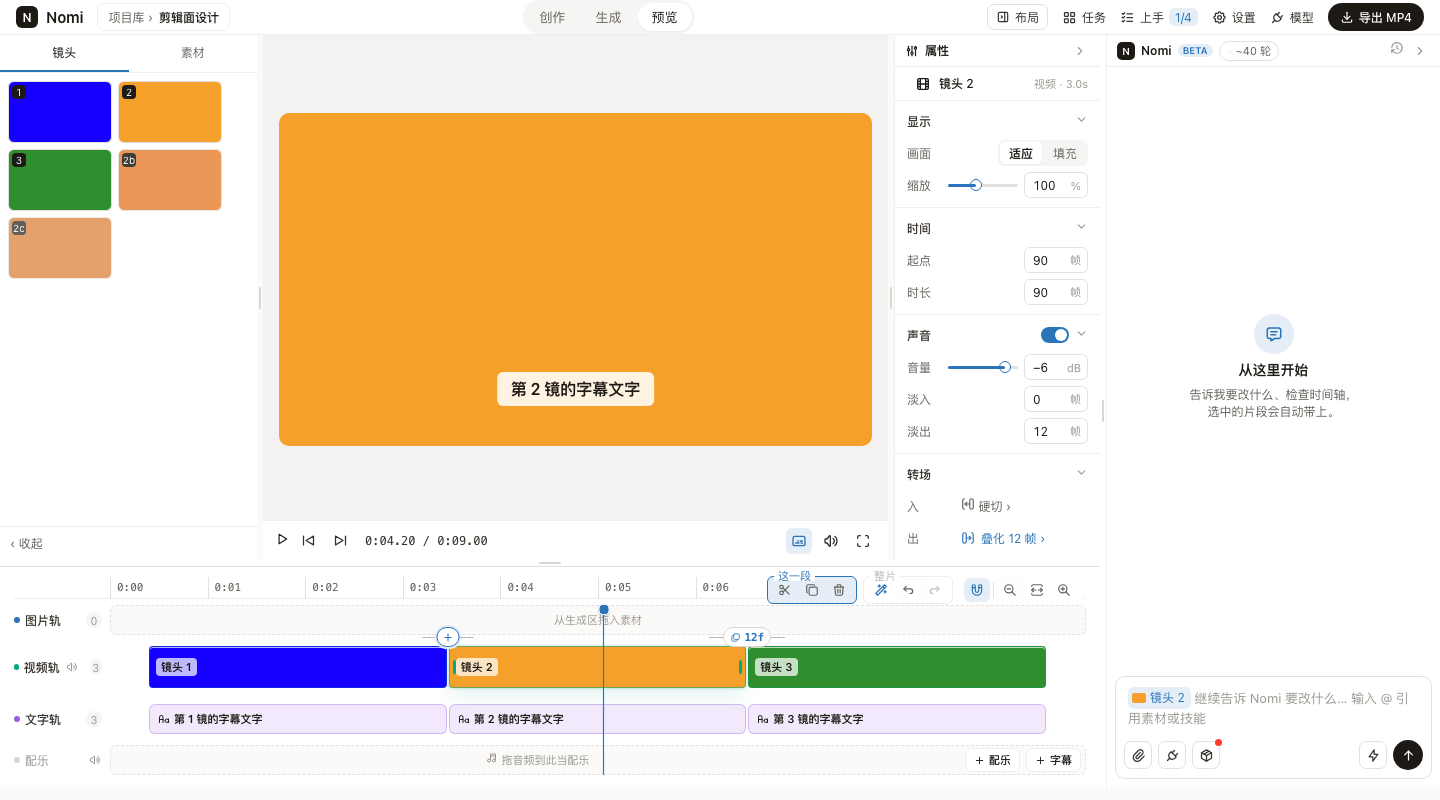
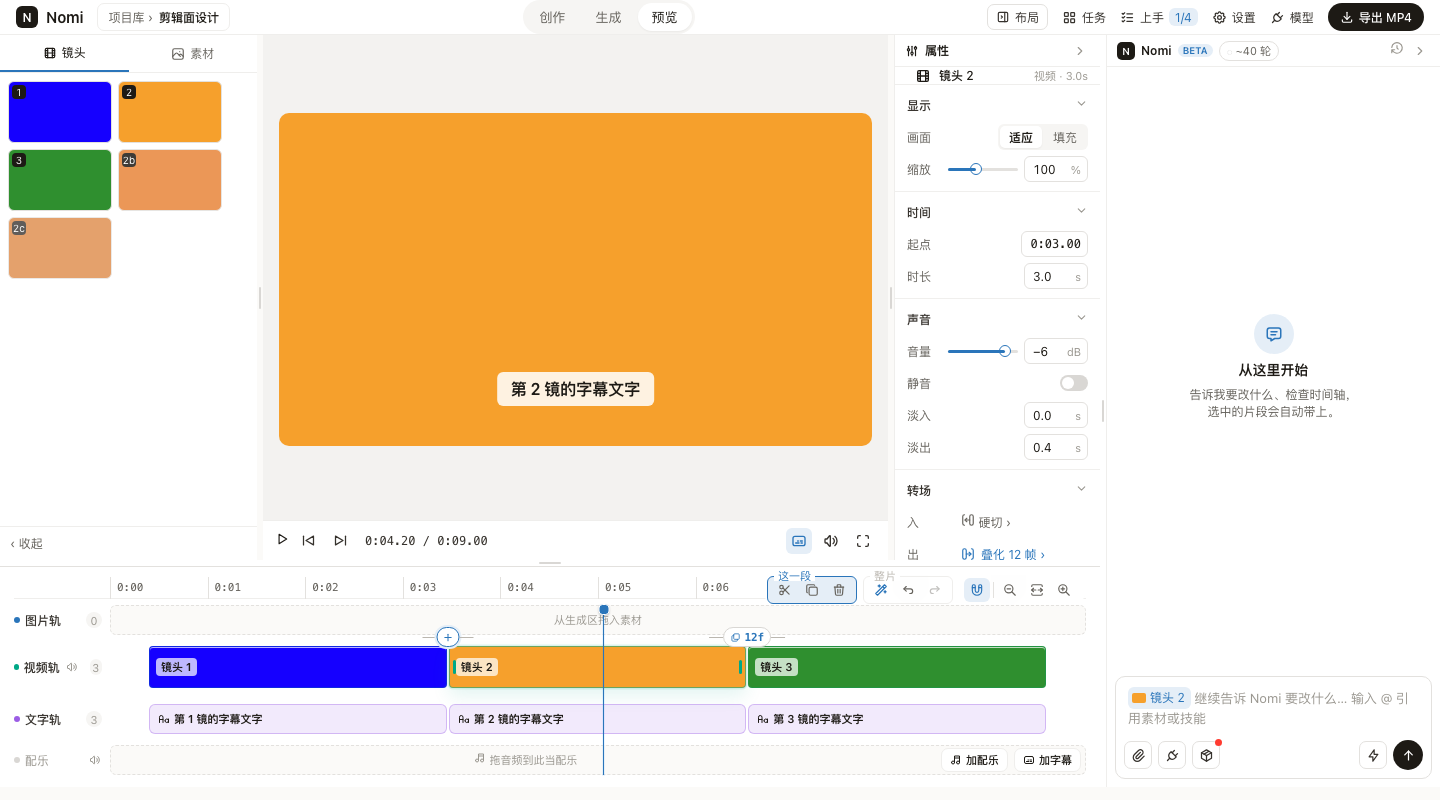
docs(design): 剪辑面合同 §2.8 图标与认知负荷自查 · 样张同步（tab 图标 · 静音行 · 秒/时码单位）

diff --git a/docs/design/mockups/2026-09-05-editing-panel/AgentEditing.html b/docs/design/mockups/2026-09-05-editing-panel/AgentEditing.html
@@ -284,7 +284,7 @@ table.cmp td.k{color:#1d1a15;font-weight:500}
   <div style="display:flex;flex-direction:column;flex:1;min-width:0">
     <div class="body d" style="flex:1;min-height:0">
       <div class="lrail" style="width:257px;flex:none;border-right:0">
-        <div class="tabs"><span class="on">镜头</span><span>素材</span></div>
+        <div class="tabs"><span class="on" style="display:inline-flex;align-items:center;justify-content:center;gap:5px"><svg width="14" height="14" viewBox="0 0 24 24" fill="none" stroke="currentColor" stroke-width="2" stroke-linecap="round" stroke-linejoin="round"><path d="M4 6a2 2 0 0 1 2 -2h12a2 2 0 0 1 2 2v12a2 2 0 0 1 -2 2h-12a2 2 0 0 1 -2 -2l0 -12"/><path d="M8 4l0 16"/><path d="M16 4l0 16"/><path d="M4 8l4 0"/><path d="M4 16l4 0"/><path d="M4 12l16 0"/><path d="M16 8l4 0"/><path d="M16 16l4 0"/></svg>镜头</span><span style="display:inline-flex;align-items:center;justify-content:center;gap:5px"><svg width="14" height="14" viewBox="0 0 24 24" fill="none" stroke="currentColor" stroke-width="2" stroke-linecap="round" stroke-linejoin="round"><path d="M15 8h.01"/><path d="M3 6a3 3 0 0 1 3 -3h12a3 3 0 0 1 3 3v12a3 3 0 0 1 -3 3h-12a3 3 0 0 1 -3 -3v-12"/><path d="M3 16l5 -5c.928 -.893 2.072 -.893 3 0l5 5"/><path d="M14 14l1 -1c.928 -.893 2.072 -.893 3 0l3 3"/></svg>素材</span></div>
         <div class="shots"><div class="shot" style="background:#1500ff"><i>1</i></div><div class="shot" style="background:#f6a02c"><i>2</i></div><div class="shot" style="background:#2f8f2f"><i>3</i></div><div class="shot" style="background:#e8853a;opacity:.85"><i>2b</i></div><div class="shot" style="background:#d97a2e;opacity:.7"><i>2c</i></div></div>
         <div class="foot">‹ 收起</div>
       </div>
@@ -322,12 +322,13 @@ table.cmp td.k{color:#1d1a15;font-weight:500}
     <div class="prow"><span class="k">画面</span><span class="v"><span class="seg"><span class="on">适应</span><span>填充</span></span></span></div>
     <div class="prow"><span class="k">缩放</span><span class="v"><span class="sl" style="--p:40%;width:70px;flex:none"><i></i></span><span class="nbox"><b>100</b><span class="u">%</span></span></span></div></div>
   <div class="psec"><div class="pt">时间<span class="sp"></span><span class="chev"><svg width="13" height="13" viewBox="0 0 24 24" fill="none" stroke="currentColor" stroke-width="2" stroke-linecap="round" stroke-linejoin="round"><path d="M6 9l6 6l6 -6"/></svg></span></div>
-    <div class="prow"><span class="k">起点</span><span class="v"><span class="nbox"><b>90</b><span class="u">帧</span></span></span></div>
-    <div class="prow"><span class="k">时长</span><span class="v"><span class="nbox"><b>90</b><span class="u">帧</span></span></span></div></div>
-  <div class="psec"><div class="pt">声音<span class="sp"></span><span class="sw on" style="margin-right:6px"></span><span class="chev"><svg width="13" height="13" viewBox="0 0 24 24" fill="none" stroke="currentColor" stroke-width="2" stroke-linecap="round" stroke-linejoin="round"><path d="M6 9l6 6l6 -6"/></svg></span></div>
+    <div class="prow"><span class="k">起点</span><span class="v"><span class="nbox mono"><b>0:03.00</b></span></span></div>
+    <div class="prow"><span class="k">时长</span><span class="v"><span class="nbox"><b>3.0</b><span class="u">s</span></span></span></div></div>
+  <div class="psec"><div class="pt">声音<span class="sp"></span><span class="chev"><svg width="13" height="13" viewBox="0 0 24 24" fill="none" stroke="currentColor" stroke-width="2" stroke-linecap="round" stroke-linejoin="round"><path d="M6 9l6 6l6 -6"/></svg></span></div>
     <div class="prow"><span class="k">音量</span><span class="v"><span class="sl" style="--p:82%;width:70px;flex:none"><i></i></span><span class="nbox"><b>−6</b><span class="u">dB</span></span></span></div>
-    <div class="prow"><span class="k">淡入</span><span class="v"><span class="nbox"><b>0</b><span class="u">帧</span></span></span></div>
-    <div class="prow"><span class="k">淡出</span><span class="v"><span class="nbox"><b>12</b><span class="u">帧</span></span></span></div></div>
+    <div class="prow"><span class="k">静音</span><span class="v"><span class="sw"></span></span></div>
+    <div class="prow"><span class="k">淡入</span><span class="v"><span class="nbox"><b>0.0</b><span class="u">s</span></span></span></div>
+    <div class="prow"><span class="k">淡出</span><span class="v"><span class="nbox"><b>0.4</b><span class="u">s</span></span></span></div></div>
   <div class="psec" style="border-bottom:0"><div class="pt">转场<span class="sp"></span><span class="chev"><svg width="13" height="13" viewBox="0 0 24 24" fill="none" stroke="currentColor" stroke-width="2" stroke-linecap="round" stroke-linejoin="round"><path d="M6 9l6 6l6 -6"/></svg></span></div>
     <div class="prow"><span class="k">入</span><span class="v" style="justify-content:flex-start"><span class="cap"><svg width="14" height="14" viewBox="0 0 24 24" fill="none" stroke="currentColor" stroke-width="2" stroke-linecap="round" stroke-linejoin="round"><path d="M6 21a3 3 0 0 1 -3 -3v-12a3 3 0 0 1 3 -3"/><path d="M21 6v12a3 3 0 0 1 -6 0v-12a3 3 0 0 1 6 0"/><path d="M15 12h-8"/><path d="M10 9l-3 3l3 3"/></svg> 硬切 ›</span></span></div>
     <div class="prow"><span class="k">出</span><span class="v" style="justify-content:flex-start;color:#2a75ba"><svg width="14" height="14" viewBox="0 0 24 24" fill="none" stroke="currentColor" stroke-width="2" stroke-linecap="round" stroke-linejoin="round"><path d="M18 3a3 3 0 0 1 3 3v12a3 3 0 0 1 -3 3"/><path d="M3 18v-12a3 3 0 1 1 6 0v12a3 3 0 0 1 -6 0"/><path d="M9 12h8"/><path d="M14 15l3 -3l-3 -3"/></svg> 叠化 12 帧 ›</span></div></div>
@@ -363,7 +364,7 @@ table.cmp td.k{color:#1d1a15;font-weight:500}
         <div class="tclip" style="left:65.4%;width:30.5%"><svg width="12" height="12" viewBox="0 0 24 24" fill="none" stroke="currentColor" stroke-width="2" stroke-linecap="round" stroke-linejoin="round"><path d="M14 15.5a3.5 3.5 0 1 0 7 0a3.5 3.5 0 1 0 -7 0"/><path d="M3 19v-10.5a3.5 3.5 0 0 1 7 0v10.5"/><path d="M3 13h7"/><path d="M21 12v7"/></svg>第 3 镜的字幕文字</div>
       </div></div>
     <div class="track" style="margin-bottom:0"><div class="lab" style="color:#9b9891;font-weight:400"><i style="background:#d9d7d4"></i>配乐<span class="mu" style="margin-left:auto"><svg width="12" height="12" viewBox="0 0 24 24" fill="none" stroke="currentColor" stroke-width="2" stroke-linecap="round" stroke-linejoin="round"><path d="M15 8a5 5 0 0 1 0 8"/><path d="M17.7 5a9 9 0 0 1 0 14"/><path d="M6 15h-2a1 1 0 0 1 -1 -1v-4a1 1 0 0 1 1 -1h2l3.5 -4.5a.8 .8 0 0 1 1.5 .5v14a.8 .8 0 0 1 -1.5 .5l-3.5 -4.5"/></svg></span></div>
-      <div class="lane thin empty" style="justify-content:flex-start;padding-left:0"><span style="flex:1;text-align:center"><svg width="12" height="12" viewBox="0 0 24 24" fill="none" stroke="currentColor" stroke-width="2" stroke-linecap="round" stroke-linejoin="round"><path d="M3 17a3 3 0 1 0 6 0a3 3 0 0 0 -6 0"/><path d="M13 17a3 3 0 1 0 6 0a3 3 0 0 0 -6 0"/><path d="M9 17v-13h10v13"/><path d="M9 8h10"/></svg> 拖音频到此当配乐</span><span class="addchip" style="margin-right:6px"><svg width="11" height="11" viewBox="0 0 24 24" fill="none" stroke="currentColor" stroke-width="2" stroke-linecap="round" stroke-linejoin="round"><path d="M12 5l0 14"/><path d="M5 12l14 0"/></svg>配乐</span><span class="addchip" style="margin-right:4px"><svg width="11" height="11" viewBox="0 0 24 24" fill="none" stroke="currentColor" stroke-width="2" stroke-linecap="round" stroke-linejoin="round"><path d="M12 5l0 14"/><path d="M5 12l14 0"/></svg>字幕</span></div></div>
+      <div class="lane thin empty" style="justify-content:flex-start;padding-left:0"><span style="flex:1;text-align:center"><svg width="12" height="12" viewBox="0 0 24 24" fill="none" stroke="currentColor" stroke-width="2" stroke-linecap="round" stroke-linejoin="round"><path d="M3 17a3 3 0 1 0 6 0a3 3 0 0 0 -6 0"/><path d="M13 17a3 3 0 1 0 6 0a3 3 0 0 0 -6 0"/><path d="M9 17v-13h10v13"/><path d="M9 8h10"/></svg> 拖音频到此当配乐</span><span class="addchip" style="margin-right:6px"><svg width="12" height="12" viewBox="0 0 24 24" fill="none" stroke="currentColor" stroke-width="2" stroke-linecap="round" stroke-linejoin="round"><path d="M3 17a3 3 0 1 0 6 0a3 3 0 0 0 -6 0"/><path d="M13 17a3 3 0 1 0 6 0a3 3 0 0 0 -6 0"/><path d="M9 17v-13h10v13"/><path d="M9 8h10"/></svg>加配乐</span><span class="addchip" style="margin-right:4px"><svg width="12" height="12" viewBox="0 0 24 24" fill="none" stroke="currentColor" stroke-width="2" stroke-linecap="round" stroke-linejoin="round"><path d="M18 5a3 3 0 0 1 3 3v8a3 3 0 0 1 -3 3h-12a3 3 0 0 1 -3 -3v-8a3 3 0 0 1 3 -3l12 0"/><path d="M7 15h5"/><path d="M15 15h2"/><path d="M17 12h-3"/><path d="M11 12h-1"/></svg>加字幕</span></div></div>
   </div>
 </div>
 

diff --git a/docs/design/mockups/2026-09-05-editing-panel/Main.html b/docs/design/mockups/2026-09-05-editing-panel/Main.html
@@ -284,7 +284,7 @@ table.cmp td.k{color:#1d1a15;font-weight:500}
   <div style="display:flex;flex-direction:column;flex:1;min-width:0">
     <div class="body d" style="flex:1;min-height:0">
       <div class="lrail" style="width:257px;flex:none;border-right:0">
-        <div class="tabs"><span class="on">镜头</span><span>素材</span></div>
+        <div class="tabs"><span class="on" style="display:inline-flex;align-items:center;justify-content:center;gap:5px"><svg width="14" height="14" viewBox="0 0 24 24" fill="none" stroke="currentColor" stroke-width="2" stroke-linecap="round" stroke-linejoin="round"><path d="M4 6a2 2 0 0 1 2 -2h12a2 2 0 0 1 2 2v12a2 2 0 0 1 -2 2h-12a2 2 0 0 1 -2 -2l0 -12"/><path d="M8 4l0 16"/><path d="M16 4l0 16"/><path d="M4 8l4 0"/><path d="M4 16l4 0"/><path d="M4 12l16 0"/><path d="M16 8l4 0"/><path d="M16 16l4 0"/></svg>镜头</span><span style="display:inline-flex;align-items:center;justify-content:center;gap:5px"><svg width="14" height="14" viewBox="0 0 24 24" fill="none" stroke="currentColor" stroke-width="2" stroke-linecap="round" stroke-linejoin="round"><path d="M15 8h.01"/><path d="M3 6a3 3 0 0 1 3 -3h12a3 3 0 0 1 3 3v12a3 3 0 0 1 -3 3h-12a3 3 0 0 1 -3 -3v-12"/><path d="M3 16l5 -5c.928 -.893 2.072 -.893 3 0l5 5"/><path d="M14 14l1 -1c.928 -.893 2.072 -.893 3 0l3 3"/></svg>素材</span></div>
         <div class="shots"><div class="shot" style="background:#1500ff"><i>1</i></div><div class="shot" style="background:#f6a02c"><i>2</i></div><div class="shot" style="background:#2f8f2f"><i>3</i></div><div class="shot" style="background:#e8853a;opacity:.85"><i>2b</i></div><div class="shot" style="background:#d97a2e;opacity:.7"><i>2c</i></div></div>
         <div class="foot">‹ 收起</div>
       </div>
@@ -307,12 +307,13 @@ table.cmp td.k{color:#1d1a15;font-weight:500}
     <div class="prow"><span class="k">画面</span><span class="v"><span class="seg"><span class="on">适应</span><span>填充</span></span></span></div>
     <div class="prow"><span class="k">缩放</span><span class="v"><span class="sl" style="--p:40%;width:70px;flex:none"><i></i></span><span class="nbox"><b>100</b><span class="u">%</span></span></span></div></div>
   <div class="psec"><div class="pt">时间<span class="sp"></span><span class="chev"><svg width="13" height="13" viewBox="0 0 24 24" fill="none" stroke="currentColor" stroke-width="2" stroke-linecap="round" stroke-linejoin="round"><path d="M6 9l6 6l6 -6"/></svg></span></div>
-    <div class="prow"><span class="k">起点</span><span class="v"><span class="nbox"><b>90</b><span class="u">帧</span></span></span></div>
-    <div class="prow"><span class="k">时长</span><span class="v"><span class="nbox"><b>90</b><span class="u">帧</span></span></span></div></div>
-  <div class="psec"><div class="pt">声音<span class="sp"></span><span class="sw on" style="margin-right:6px"></span><span class="chev"><svg width="13" height="13" viewBox="0 0 24 24" fill="none" stroke="currentColor" stroke-width="2" stroke-linecap="round" stroke-linejoin="round"><path d="M6 9l6 6l6 -6"/></svg></span></div>
+    <div class="prow"><span class="k">起点</span><span class="v"><span class="nbox mono"><b>0:03.00</b></span></span></div>
+    <div class="prow"><span class="k">时长</span><span class="v"><span class="nbox"><b>3.0</b><span class="u">s</span></span></span></div></div>
+  <div class="psec"><div class="pt">声音<span class="sp"></span><span class="chev"><svg width="13" height="13" viewBox="0 0 24 24" fill="none" stroke="currentColor" stroke-width="2" stroke-linecap="round" stroke-linejoin="round"><path d="M6 9l6 6l6 -6"/></svg></span></div>
     <div class="prow"><span class="k">音量</span><span class="v"><span class="sl" style="--p:82%;width:70px;flex:none"><i></i></span><span class="nbox"><b>−6</b><span class="u">dB</span></span></span></div>
-    <div class="prow"><span class="k">淡入</span><span class="v"><span class="nbox"><b>0</b><span class="u">帧</span></span></span></div>
-    <div class="prow"><span class="k">淡出</span><span class="v"><span class="nbox"><b>12</b><span class="u">帧</span></span></span></div></div>
+    <div class="prow"><span class="k">静音</span><span class="v"><span class="sw"></span></span></div>
+    <div class="prow"><span class="k">淡入</span><span class="v"><span class="nbox"><b>0.0</b><span class="u">s</span></span></span></div>
+    <div class="prow"><span class="k">淡出</span><span class="v"><span class="nbox"><b>0.4</b><span class="u">s</span></span></span></div></div>
   <div class="psec" style="border-bottom:0"><div class="pt">转场<span class="sp"></span><span class="chev"><svg width="13" height="13" viewBox="0 0 24 24" fill="none" stroke="currentColor" stroke-width="2" stroke-linecap="round" stroke-linejoin="round"><path d="M6 9l6 6l6 -6"/></svg></span></div>
     <div class="prow"><span class="k">入</span><span class="v" style="justify-content:flex-start"><span class="cap"><svg width="14" height="14" viewBox="0 0 24 24" fill="none" stroke="currentColor" stroke-width="2" stroke-linecap="round" stroke-linejoin="round"><path d="M6 21a3 3 0 0 1 -3 -3v-12a3 3 0 0 1 3 -3"/><path d="M21 6v12a3 3 0 0 1 -6 0v-12a3 3 0 0 1 6 0"/><path d="M15 12h-8"/><path d="M10 9l-3 3l3 3"/></svg> 硬切 ›</span></span></div>
     <div class="prow"><span class="k">出</span><span class="v" style="justify-content:flex-start;color:#2a75ba"><svg width="14" height="14" viewBox="0 0 24 24" fill="none" stroke="currentColor" stroke-width="2" stroke-linecap="round" stroke-linejoin="round"><path d="M18 3a3 3 0 0 1 3 3v12a3 3 0 0 1 -3 3"/><path d="M3 18v-12a3 3 0 1 1 6 0v12a3 3 0 0 1 -6 0"/><path d="M9 12h8"/><path d="M14 15l3 -3l-3 -3"/></svg> 叠化 12 帧 ›</span></div></div>
@@ -347,7 +348,7 @@ table.cmp td.k{color:#1d1a15;font-weight:500}
         <div class="tclip" style="left:65.4%;width:30.5%"><svg width="12" height="12" viewBox="0 0 24 24" fill="none" stroke="currentColor" stroke-width="2" stroke-linecap="round" stroke-linejoin="round"><path d="M14 15.5a3.5 3.5 0 1 0 7 0a3.5 3.5 0 1 0 -7 0"/><path d="M3 19v-10.5a3.5 3.5 0 0 1 7 0v10.5"/><path d="M3 13h7"/><path d="M21 12v7"/></svg>第 3 镜的字幕文字</div>
       </div></div>
     <div class="track" style="margin-bottom:0"><div class="lab" style="color:#9b9891;font-weight:400"><i style="background:#d9d7d4"></i>配乐<span class="mu" style="margin-left:auto"><svg width="12" height="12" viewBox="0 0 24 24" fill="none" stroke="currentColor" stroke-width="2" stroke-linecap="round" stroke-linejoin="round"><path d="M15 8a5 5 0 0 1 0 8"/><path d="M17.7 5a9 9 0 0 1 0 14"/><path d="M6 15h-2a1 1 0 0 1 -1 -1v-4a1 1 0 0 1 1 -1h2l3.5 -4.5a.8 .8 0 0 1 1.5 .5v14a.8 .8 0 0 1 -1.5 .5l-3.5 -4.5"/></svg></span></div>
-      <div class="lane thin empty" style="justify-content:flex-start;padding-left:0"><span style="flex:1;text-align:center"><svg width="12" height="12" viewBox="0 0 24 24" fill="none" stroke="currentColor" stroke-width="2" stroke-linecap="round" stroke-linejoin="round"><path d="M3 17a3 3 0 1 0 6 0a3 3 0 0 0 -6 0"/><path d="M13 17a3 3 0 1 0 6 0a3 3 0 0 0 -6 0"/><path d="M9 17v-13h10v13"/><path d="M9 8h10"/></svg> 拖音频到此当配乐</span><span class="addchip" style="margin-right:6px"><svg width="11" height="11" viewBox="0 0 24 24" fill="none" stroke="currentColor" stroke-width="2" stroke-linecap="round" stroke-linejoin="round"><path d="M12 5l0 14"/><path d="M5 12l14 0"/></svg>配乐</span><span class="addchip" style="margin-right:4px"><svg width="11" height="11" viewBox="0 0 24 24" fill="none" stroke="currentColor" stroke-width="2" stroke-linecap="round" stroke-linejoin="round"><path d="M12 5l0 14"/><path d="M5 12l14 0"/></svg>字幕</span></div></div>
+      <div class="lane thin empty" style="justify-content:flex-start;padding-left:0"><span style="flex:1;text-align:center"><svg width="12" height="12" viewBox="0 0 24 24" fill="none" stroke="currentColor" stroke-width="2" stroke-linecap="round" stroke-linejoin="round"><path d="M3 17a3 3 0 1 0 6 0a3 3 0 0 0 -6 0"/><path d="M13 17a3 3 0 1 0 6 0a3 3 0 0 0 -6 0"/><path d="M9 17v-13h10v13"/><path d="M9 8h10"/></svg> 拖音频到此当配乐</span><span class="addchip" style="margin-right:6px"><svg width="12" height="12" viewBox="0 0 24 24" fill="none" stroke="currentColor" stroke-width="2" stroke-linecap="round" stroke-linejoin="round"><path d="M3 17a3 3 0 1 0 6 0a3 3 0 0 0 -6 0"/><path d="M13 17a3 3 0 1 0 6 0a3 3 0 0 0 -6 0"/><path d="M9 17v-13h10v13"/><path d="M9 8h10"/></svg>加配乐</span><span class="addchip" style="margin-right:4px"><svg width="12" height="12" viewBox="0 0 24 24" fill="none" stroke="currentColor" stroke-width="2" stroke-linecap="round" stroke-linejoin="round"><path d="M18 5a3 3 0 0 1 3 3v8a3 3 0 0 1 -3 3h-12a3 3 0 0 1 -3 -3v-8a3 3 0 0 1 3 -3l12 0"/><path d="M7 15h5"/><path d="M15 15h2"/><path d="M17 12h-3"/><path d="M11 12h-1"/></svg>加字幕</span></div></div>
   </div>
 </div>
 

diff --git a/docs/design/2026-09-05-editing-panel-design-contract.md b/docs/design/2026-09-05-editing-panel-design-contract.md
@@ -89,6 +89,23 @@
 - 空轨一律收成窄条（图片轨与配乐行一致）；默认高度 260 装四轨；打开按内容 fit（#500 已做）。
 - 快捷键：所有 tooltip 带键位；顶栏「?」/ 按 ? 弹快捷键面板（现役 8 组 + Q / W / ⇧Z / ⌘\）。
 
+
+### 2.8 图标与认知负荷自查（用户 2026-09-05 指示：有 icon 尽可能用 icon；从用户角度简化认知）
+
+| 位置 | 现在 | 裁决 |
+|---|---|---|
+| 左栏 tab | 纯文字「镜头 / 素材」 | 加 `IconMovie` / `IconPhoto`，剪映左栏同款「图标 + 文字」 |
+| 叠加行 chip | 「+ 配乐」「+ 字幕」 | 改成 `IconMusic` 加配乐 / `IconSubtitles` 加字幕，类型图标比加号更可识别 |
+| 属性 · 声音 | 组标题上一个开关（含义不清） | 改成显式「静音」一行 + 开关 |
+| 属性 · 时间 | 起点 / 时长 / 淡入淡出全用帧 | 起点用时码 `0:03.00`、时长与淡入淡出用秒，与 transport 读数一致；帧只在 tooltip 与 Agent 契约里 |
+| 属性 · 转场 | 入 / 出用剪刀 / 图层图标 | `IconTransitionLeft` / `IconTransitionRight`，类型只写字 |
+| 组标题 | 纯文字 | 保持纯文字（OpenCut 用 tab 图标、CapCut 用文字，两种都有；组只有四个，加图标是噪音） |
+| 右键菜单 | 每项带图标 + 键位 | 保持 |
+| composer「模型」钮 | 插头图标 | 建议改成短模型名文字 pill（ChatCut 做法「GPT-5.6-Sol High ▾」），归 Agent UI 轨定 |
+| 所有图标 | 必须是真实 Tabler 字形，与实现同一份 `@tabler/icons-react` | 样张构建脚本已直接从包里抽路径，禁止手绘近似 |
+
+认知负荷原则：一屏只出现用户此刻能动的东西（属性随选中 derive、接缝把手悬停才出）；数值优先用用户口语单位（秒、时码），帧是工程单位；同一动作全站一个图标一个词。
+
 ## ③ 状态表
 
 | 对象 | 状态 | 视觉 |
